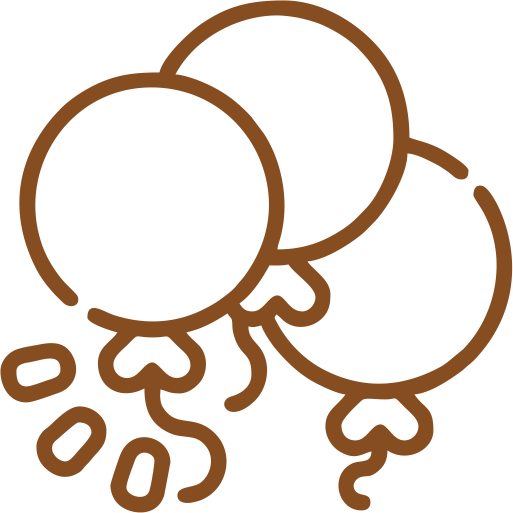
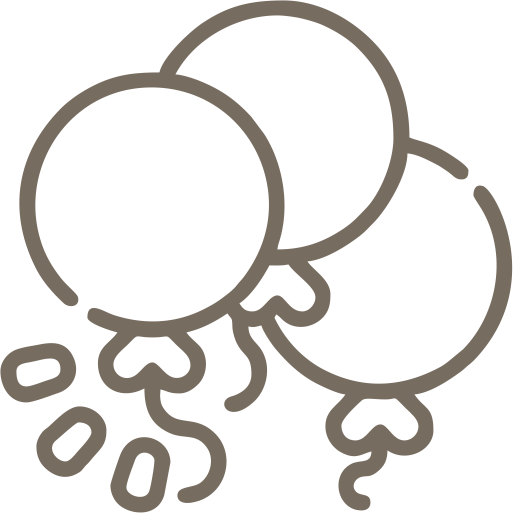
images

Changed region(s): [[0.0312, 0.0, 0.9981, 1.0], [0.0, 0.655, 0.2183, 0.9357]]

diff --git a/index.html b/index.html
@@ -15,20 +15,21 @@
             <div class="container">
                 <img src="assets/quince.png" alt="Icono Iglesia"
                 class="icono-quince">
-                <h2 class="nombre">Valeria</h2>
-                <p class="fecha">SÁBADO 16 DICIEMBRE</p>
-                <p class="acompaname">Acompáñame a celebrar este gran dí.</p>
+                <h1 class="titulo">Valeria</h1>
+                <img src="assets/fecha.png" alt="Icono Iglesia"
+                class="icono-quince">
+                <p class="texto">Acompáñame a celebrar este gran día.</p>
             </div>
         </section>
 
         <!-- Seccion de palabras alucivas -->
-        <section class="seccion-palabras-alucivas">
+        <section class="seccion-subtitulo">
             <div class="container">
-            <h2>Mis padres</h2>
-            <p class="palabras-alucivas">Lorena Adame Ibañez</p>
-            <p class="palabras-alucivas">Osvaldo Jacquez Fraire</p>
+            <h2 class="titulo">Mis padres</h2>
+            <p class="subtitulo">Lorena Adame Ibañez</p>
+            <p class="subtitulo">Osvaldo Jacquez Fraire</p>
             
-            <p >Do enim consectetur enim nisi velit. Anim qui irure adipisicing do amet. Incididunt esse Lorem est mollit.</p>
+            <p class="texto">Do enim consectetur enim nisi velit. Anim qui irure adipisicing do amet. Incididunt esse Lorem est mollit.</p>
             </div>
         </section>
 
@@ -48,14 +49,14 @@
             <h2 class="nombre-evento">Nombre del Salón del Evento</h2>
             <p class="ubicacion-evento">Ubicación del Salón del Evento</p>
             <p class="hora-evento">Hora del Evento</p>
-            <button class="btn-como-llegar-evento">Cómo Llegar</button>
+            <button class="btn-como-llegar-evento"><img src="" alt=""> Cómo Llegar</button>
         </section>
 
         <!-- Seccion de Agradecimiento -->
         <section class="seccion-agradecimiento">
-            <img src="assets/foto.png" alt="Foto de Agradecimiento"
+            <img src="assets/flor1.png" alt="Foto de Agradecimiento"
                 class="foto-agradecimiento">
-            <p class="mensaje-agradecimiento">Commodo voluptate aliqua quis incididunt non dolore nulla dolore.</p>
+            <p class="titulo">Gracias</p>
         </section>
 
     </body>

diff --git a/css/styles.css b/css/styles.css
@@ -5,7 +5,7 @@
   
 }
 body {
-    font-family: 'Perfect Garden', sans-serif;
+   
     margin: 0;
     padding: 0;
     /* background: linear-gradient(to right top, #fccfa4, #f8e5c6); Degradado en tono champagne */
@@ -37,7 +37,7 @@ section {
     background-image: url('/assets/fondo.jpg'); /* Reemplaza 'fondo-floral2.jpg' con tu imagen floral */
 } 
 .seccion-presentacion h1 {
-    color: #864d21; /* Color de texto personalizado */
+    color: #776C60; /* Color de texto personalizado */
 }
 .icono-quince {
     width: 200px; /* Tamaño del icono de la iglesia */
@@ -51,13 +51,14 @@ section {
 
 /* Seccion de lugar y hora de la iglesia */
 .seccion-iglesia {
+    font-family: 'Perfect Garden', sans-serif;
     text-align: center;
     padding: 20px;
 }
 
 .icono-iglesia {
-    width: 50px; /* Tamaño del icono de la iglesia */
-    height: 50px;
+    width: 100px; /* Tamaño del icono de la iglesia */
+    height: 100px;
 }
 
 /* Seccion lugar y hora del evento */
@@ -67,8 +68,8 @@ section {
 }
 
 .icono-globos {
-    width: 50px; /* Tamaño del icono de globos */
-    height: 50px;
+    width: 100px; /* Tamaño del icono de globos */
+    height: 100px;
 }
 
 /* Seccion de Agradecimiento */
@@ -78,7 +79,7 @@ section {
 }
 
 .foto-agradecimiento {
-    width: 50%; /* La imagen ocupa todo el ancho de su contenedor */
+    width: 100px; /* La imagen ocupa todo el ancho de su contenedor */
     height: auto; 
     border-radius: 100%;
 
@@ -86,7 +87,7 @@ section {
 
 /* Estilos generales para botones */
 button {
-    background-color: #864d21; /* Color de fondo del botón */
+    background-color: #776C60; /* Color de fondo del botón */
     color: #fff; /* Color de texto del botón */
     padding: 10px 20px;
     border: none;
